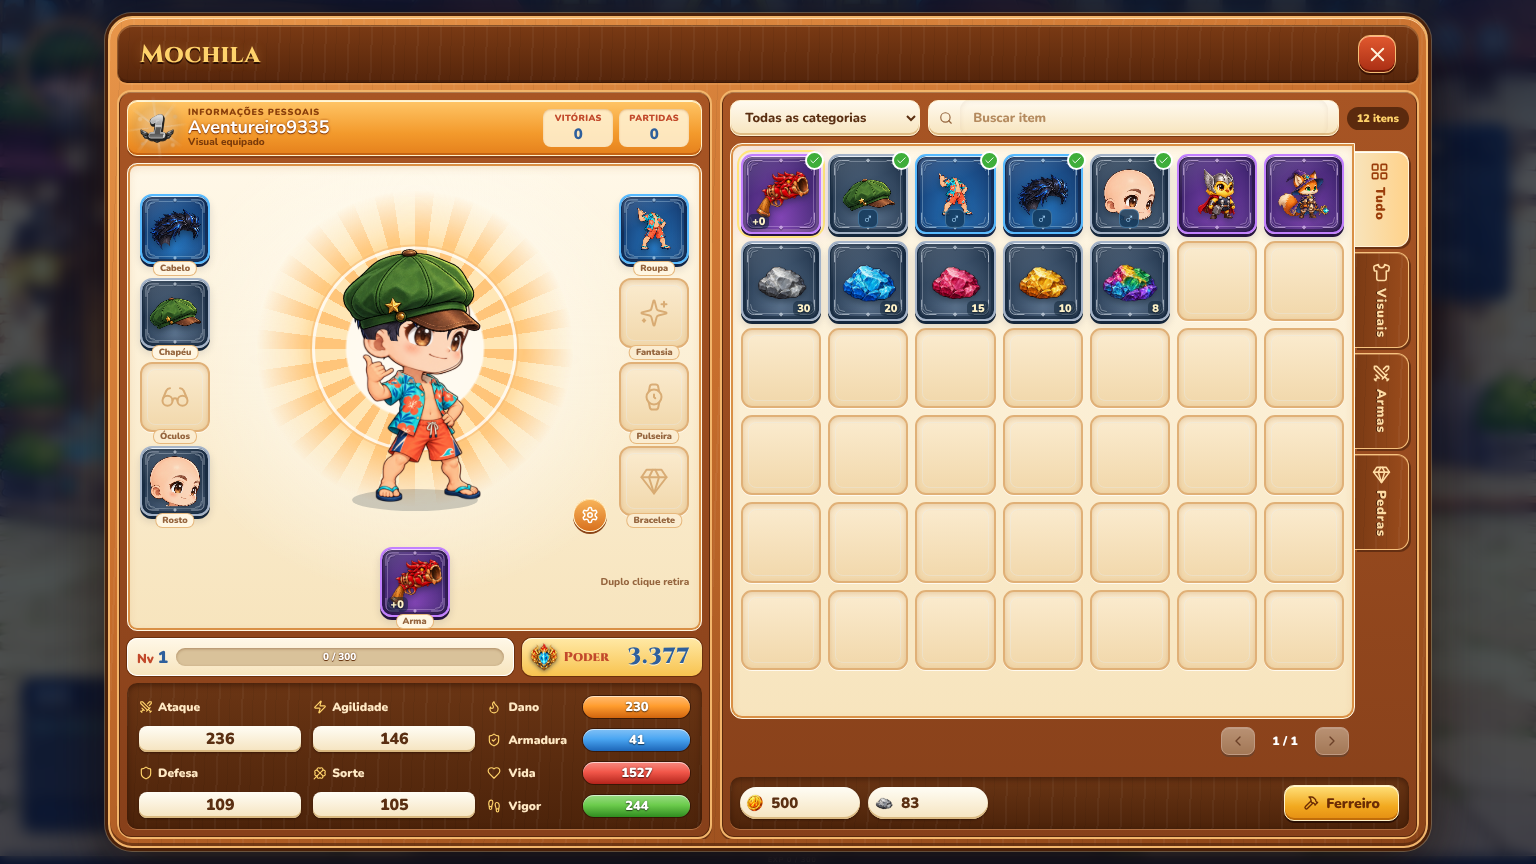
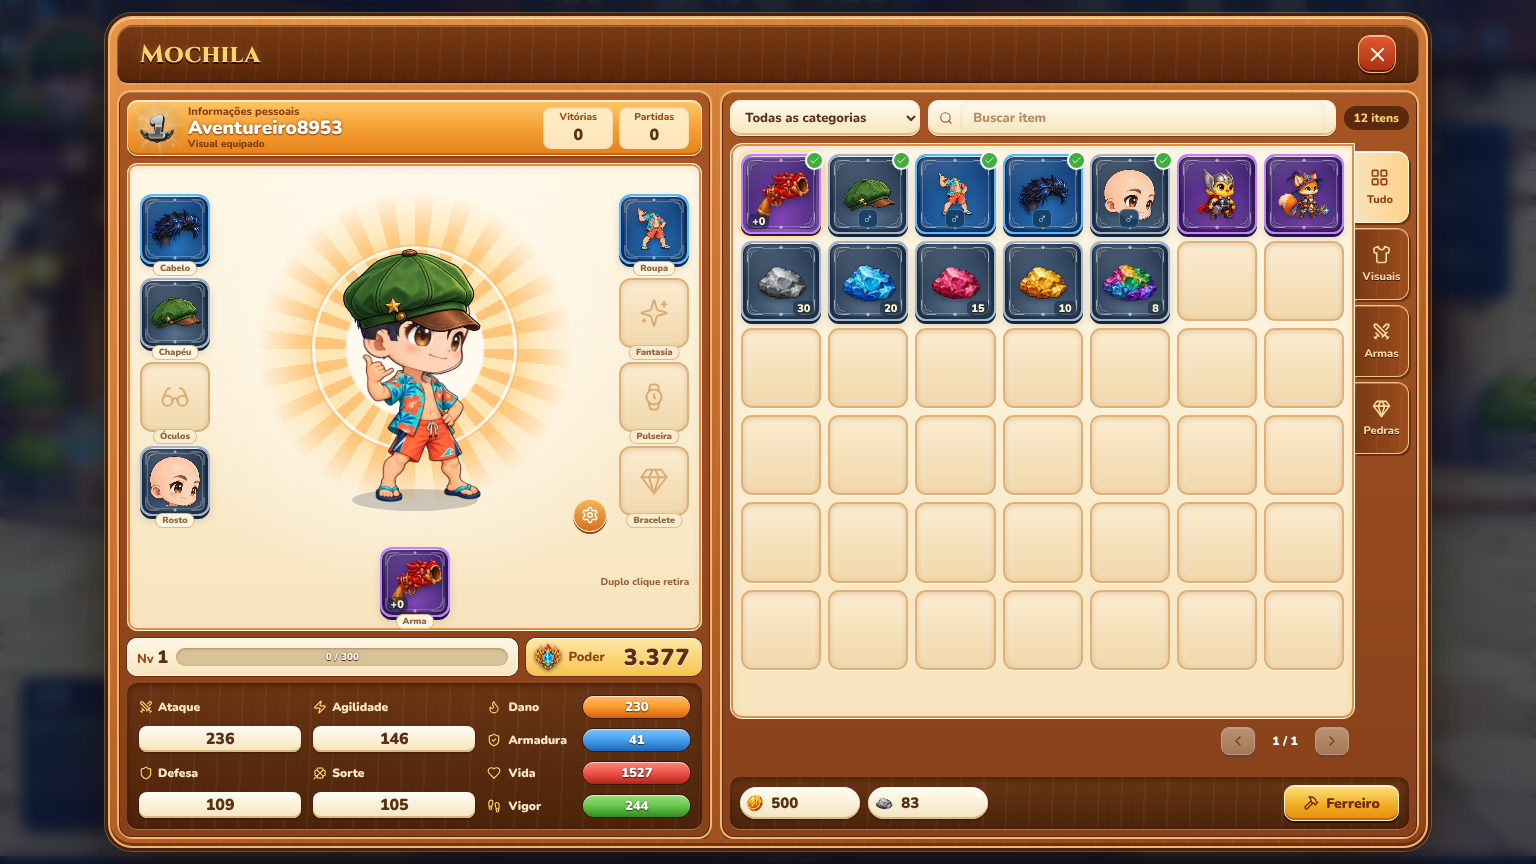
Use the game's Nunito typography in the backpack
Drop Cinzel and uppercase letter-spaced labels from the backpack body,
set Nunito on its controls, and lay tab labels horizontally under the
icons like the bottom dock. The window title keeps the shared Cinzel.

Claude-Session: https://claude.ai/code/session_01T3DnNoGPBrqeA1x5S2iqZd

diff --git a/src/components/Backpack.css b/src/components/Backpack.css
@@ -45,6 +45,13 @@
   color: #fff3dc;
 }
 
+/* Mesma tipografia do resto do jogo: Nunito arredondada e pesada no conteúdo,
+   Cinzel só no título da janela (cabeçalho compartilhado). */
+.bag-window .bag-layout,
+.bag-window .bag-layout :is(button, input, select, b, strong, small, dt, dd) {
+  font-family: 'Nunito', 'Trebuchet MS', sans-serif;
+}
+
 /* ---------- Estrutura ---------- */
 .bag-window .bag-layout.inventory-body {
   display: grid;
@@ -91,16 +98,15 @@
 }
 .bag-window .bag-identity { display: grid; min-width: 0; flex: 1; line-height: 1.1; }
 .bag-window .bag-identity small {
-  font-size: 9px;
-  font-weight: 900;
-  letter-spacing: .8px;
-  text-transform: uppercase;
+  font-size: 11px;
+  font-weight: 800;
   color: #8a3f0b;
 }
 .bag-window .bag-identity h2 {
   margin: 0;
   overflow: hidden;
-  font-size: 18px;
+  font-size: 19px;
+  font-weight: 900;
   color: #fff;
   white-space: nowrap;
   text-overflow: ellipsis;
@@ -117,8 +123,8 @@
   box-shadow: inset 0 1px 2px #b8641a55;
   text-align: center;
 }
-.bag-window .bag-records dt { font-size: 9px; font-weight: 900; color: #c2492b; text-transform: uppercase; letter-spacing: .4px; }
-.bag-window .bag-records dd { margin: 0; font-size: 15px; font-weight: 900; color: #2e5f9c; }
+.bag-window .bag-records dt { font-size: 10px; font-weight: 800; color: #9a4a12; }
+.bag-window .bag-records dd { margin: 0; font-size: 16px; font-weight: 900; color: var(--bag-ink); }
 
 /* ---------- Palco: slots + personagem ---------- */
 .bag-window .bag-stage {
@@ -357,8 +363,8 @@
   background: linear-gradient(#fff8e8, var(--bag-cream-mid));
   box-shadow: inset 0 0 0 1px #fff, 0 0 0 1px #6b300d;
 }
-.bag-window .bag-level > span { font-size: 13px; font-weight: 900; color: #c2492b; white-space: nowrap; }
-.bag-window .bag-level > span b { font-size: 17px; color: #2e5f9c; }
+.bag-window .bag-level > span { font-size: 13px; font-weight: 800; color: #9a4a12; white-space: nowrap; }
+.bag-window .bag-level > span b { font-size: 18px; font-weight: 900; color: var(--bag-ink); }
 .bag-window .bag-xp {
   position: relative;
   flex: 1;
@@ -398,12 +404,12 @@
   background: linear-gradient(#ffe9a6, #f8c34f);
   box-shadow: inset 0 1px #fffbe6, 0 0 0 1px #6b300d;
 }
-.bag-window .combat-power > span { font-family: Cinzel, serif; font-size: 13px; font-weight: 900; color: #c2492b; }
+.bag-window .combat-power > span { font-size: 13px; font-weight: 800; color: #8a3f0b; }
 .bag-window .combat-power > strong {
-  font-family: Cinzel, serif;
-  font-size: 22px;
+  font-size: 23px;
+  font-weight: 900;
   line-height: 1;
-  color: #2e5f9c;
+  color: var(--bag-ink);
   text-shadow: 0 1px #fff7d6;
 }
 
@@ -517,8 +523,8 @@
   padding: 4px 10px;
   border-radius: 999px;
   background: #5b2a0e;
-  font-size: 11px;
-  font-weight: 900;
+  font-size: 12px;
+  font-weight: 800;
   color: var(--bag-gold);
 }
 
@@ -593,9 +599,10 @@
   display: flex;
   flex-direction: column;
   align-items: center;
-  gap: 6px;
-  min-height: 96px;
-  padding: 10px 0 8px;
+  justify-content: center;
+  gap: 5px;
+  min-height: 72px;
+  padding: 8px 0;
   border: 1px solid #f6c27e;
   border-left: 0;
   border-radius: 0 12px 12px 0;
@@ -606,10 +613,8 @@
   transition: background .15s, transform .15s;
 }
 .bag-window .bag-tabs button span {
-  font-size: 13px;
-  font-weight: 900;
-  letter-spacing: .6px;
-  writing-mode: vertical-rl;
+  font-size: 11px;
+  font-weight: 800;
   text-shadow: 0 1px #3b1806;
 }
 .bag-window .bag-tabs button:hover { transform: translateX(2px); }
